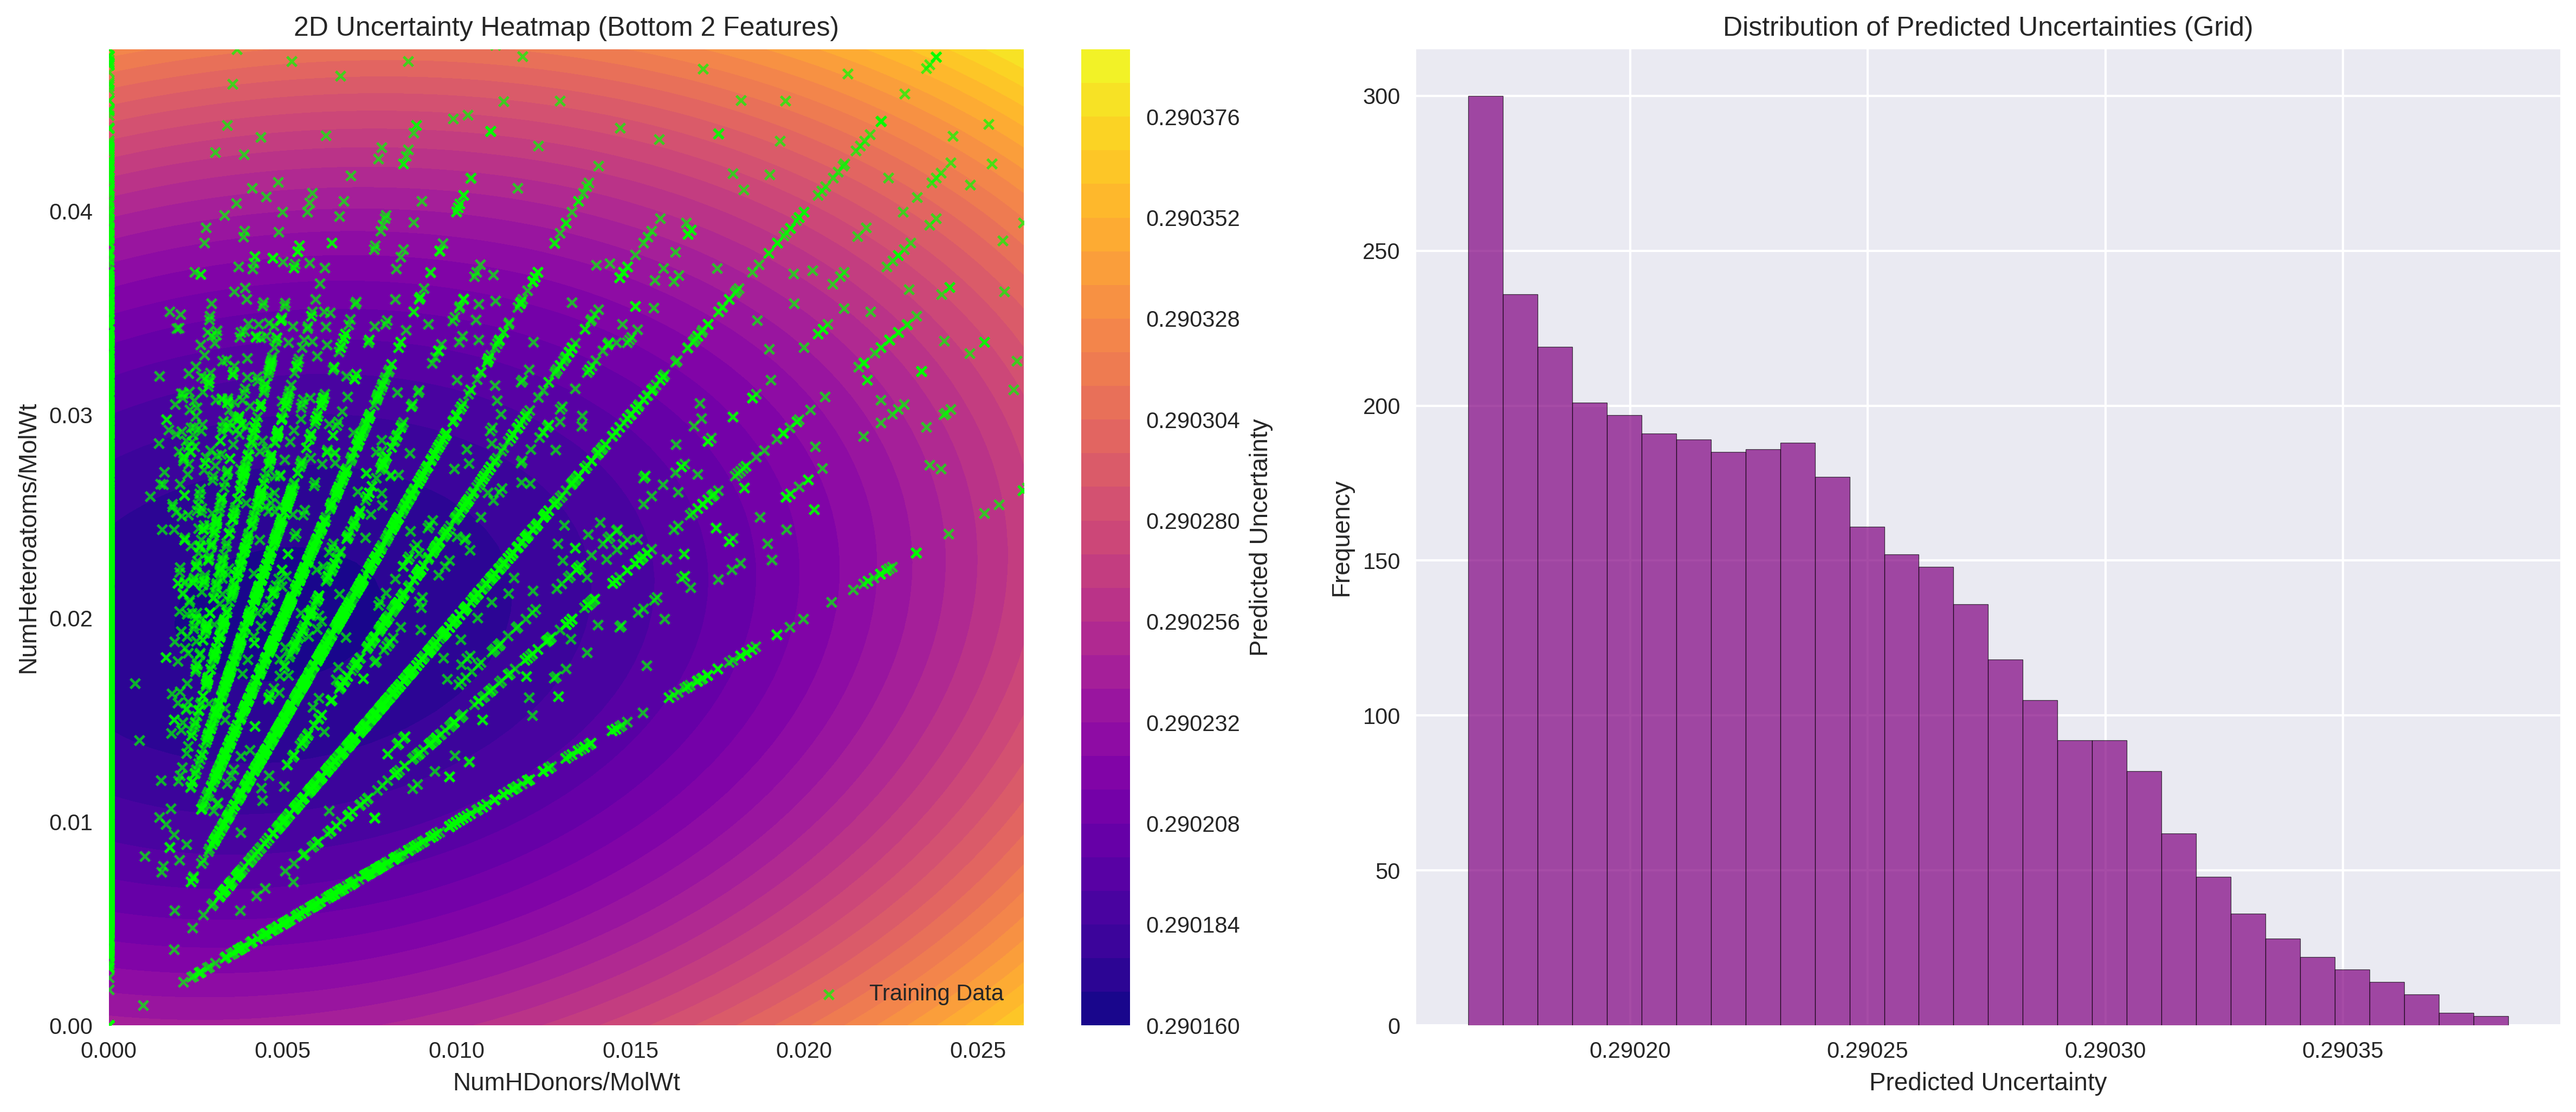
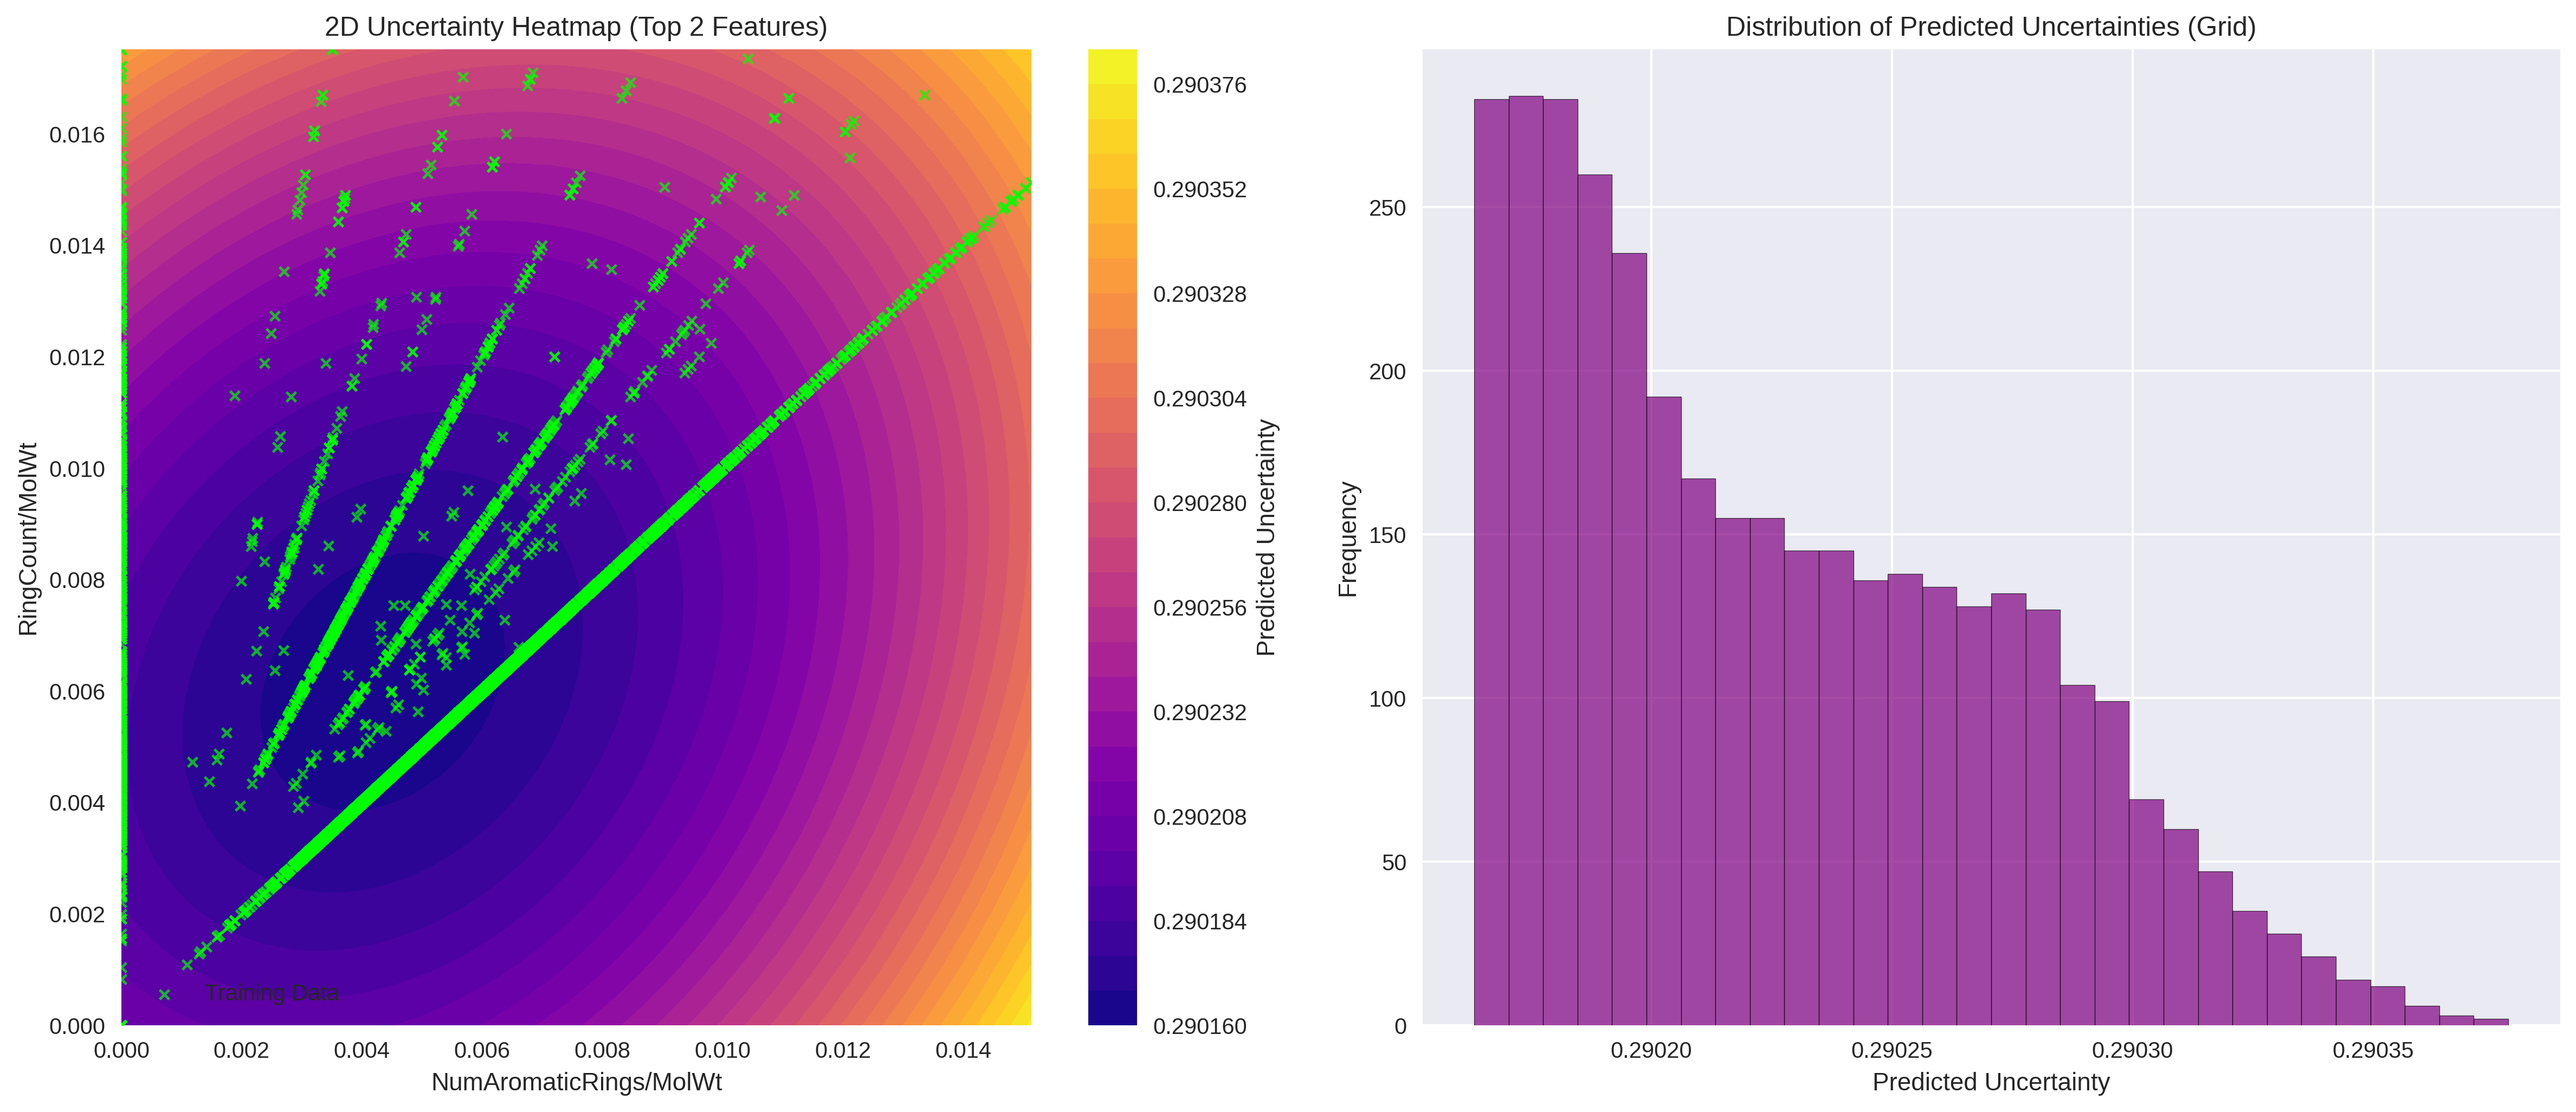
how uncertainty changes

diff --git a/main.py b/main.py
@@ -103,38 +103,21 @@ def plot_sigmas(length_scales, feature_names, sorted_indices, save_path):
     plt.savefig(save_path, dpi=300, bbox_inches='tight')
     plt.close()
 
-def plot_relative_importance(length_scales, feature_names, sorted_indices, save_path):
-    sorted_features = [feature_names[i] for i in sorted_indices]
-    importance_ratio = length_scales / np.max(length_scales)
-    
-    fig, ax = plt.subplots(figsize=(10, 8))
-    
-    ax.barh(range(len(sorted_features)), importance_ratio[sorted_indices], color='lightcoral')
-    ax.set_yticks(range(len(sorted_features)))
-    ax.set_yticklabels(sorted_features)
-    ax.set_xlabel('Relative Importance')
-    ax.set_title('Relative Feature Importance')
-    ax.grid(True, alpha=0.3)
-    
-    plt.tight_layout()
-    plt.savefig(save_path, dpi=300, bbox_inches='tight')
-    plt.close()
-
 def plot_uncertainty_heatmap(gp, X, y, feature_names, sigmas, X_train, save_path):
     length_scales = 1.0 / sigmas
     sorted_indices = np.argsort(length_scales)[::-1]
-    bottom2_idx = sorted_indices[-2:]
-    
-    x1_name, x2_name = feature_names[bottom2_idx[0]], feature_names[bottom2_idx[1]]
-    x1 = np.linspace(np.percentile(X[:, bottom2_idx[0]], 1), np.percentile(X[:, bottom2_idx[0]], 99), 60)
-    x2 = np.linspace(np.percentile(X[:, bottom2_idx[1]], 1), np.percentile(X[:, bottom2_idx[1]], 99), 60)
+    top2_idx = sorted_indices[:2]
+    x_idx, y_idx = top2_idx[0], top2_idx[1]
+    x_name, y_name = feature_names[x_idx], feature_names[y_idx]
+    x1 = np.linspace(np.percentile(X[:, x_idx], 1), np.percentile(X[:, x_idx], 99), 60)
+    x2 = np.linspace(np.percentile(X[:, y_idx], 1), np.percentile(X[:, y_idx], 99), 60)
     X1g, X2g = np.meshgrid(x1, x2)
     X_grid = np.zeros((X1g.size, X.shape[1]))
-    X_grid[:, bottom2_idx[0]] = X1g.ravel()
-    X_grid[:, bottom2_idx[1]] = X2g.ravel()
+    X_grid[:, x_idx] = X1g.ravel()
+    X_grid[:, y_idx] = X2g.ravel()
     
     for i in range(X.shape[1]):
-        if i not in bottom2_idx:
+        if i not in top2_idx:
             X_grid[:, i] = np.mean(X[:, i])
     
     _, y_std_grid = gp.predict(X_grid, return_std=True)
@@ -144,14 +127,14 @@ def plot_uncertainty_heatmap(gp, X, y, feature_names, sigmas, X_train, save_path
     cf = ax_heat.contourf(X1g, X2g, y_std_grid, levels=30, cmap='plasma')
     fig.colorbar(cf, ax=ax_heat, label='Predicted Uncertainty')
     
-    ax_heat.set_xlabel(x1_name)
-    ax_heat.set_ylabel(x2_name)
-    ax_heat.set_title('2D Uncertainty Heatmap (Bottom 2 Features)')
+    ax_heat.set_xlabel(x_name)
+    ax_heat.set_ylabel(y_name)
+    ax_heat.set_title('2D Uncertainty Heatmap (Top 2 Features)')
     ax_heat.set_xlim(x1.min(), x1.max())
     ax_heat.set_ylim(x2.min(), x2.max())
     
     if X_train is not None:
-        ax_heat.scatter(X_train[:, bottom2_idx[0]], X_train[:, bottom2_idx[1]], 
+        ax_heat.scatter(X_train[:, x_idx], X_train[:, y_idx], 
                        c='lime', marker='x', s=18, alpha=0.7, 
                        label='Training Data', zorder=5, linewidth=1.2)
         ax_heat.legend()
@@ -165,7 +148,7 @@ def plot_uncertainty_heatmap(gp, X, y, feature_names, sigmas, X_train, save_path
     plt.savefig(save_path, dpi=300, bbox_inches='tight')
     plt.close()
 
-def learning_evolution(X, y, feature_names, config, sigmas, full_X, n_init=500, n_steps=400, gif_path=f'{FIGURE_DIR}/learning_evolution.gif'):
+def learning_evolution(X, y, feature_names, config, sigmas, full_X, n_init=1, n_steps=30, gif_path=f'{FIGURE_DIR}/learning_evolution.gif'):
     np.random.seed(42)
     os.makedirs(FIGURE_DIR, exist_ok=True)
     frames = []
@@ -182,15 +165,13 @@ def learning_evolution(X, y, feature_names, config, sigmas, full_X, n_init=500, 
 
     length_scales = 1.0 / sigmas
     sorted_indices = np.argsort(length_scales)[::-1]
-    bottom2_idx = sorted_indices[-2:]
-    x_idx, y_idx = bottom2_idx[0], bottom2_idx[1]
+    top2_idx = sorted_indices[:2]
+    x_idx, y_idx = top2_idx[0], top2_idx[1]
     x_name, y_name = feature_names[x_idx], feature_names[y_idx]
 
-    xlim = (np.percentile(full_X[:, x_idx], 1), np.percentile(full_X[:, x_idx], 99))
-    ylim = (np.percentile(full_X[:, y_idx], 1), np.percentile(full_X[:, y_idx], 99))
-    grid_size = 30
-    x1 = np.linspace(xlim[0], xlim[1], grid_size)
-    x2 = np.linspace(ylim[0], ylim[1], grid_size)
+    grid_size = 60
+    x1 = np.linspace(0, 10, grid_size)
+    x2 = np.linspace(0, 0.1, grid_size)
     X1g, X2g = np.meshgrid(x1, x2)
     X_grid = np.zeros((X1g.size, X.shape[1]))
     X_grid[:, x_idx] = X1g.ravel()
@@ -209,11 +190,11 @@ def learning_evolution(X, y, feature_names, config, sigmas, full_X, n_init=500, 
     grid_unc_min, grid_unc_max = np.inf, -np.inf
     
     for _ in range(n_steps):
+        if len(temp_pool_idx) == 0:
+            break
         X_train, y_train = X[temp_train_idx], y[temp_train_idx]
-        
         gp = GP(gif_config, sigmas)
         gp.fit(X_train, y_train)
-        
         _, y_std_grid = gp.predict(X_grid, return_std=True)
         grid_unc_min = min(grid_unc_min, np.min(y_std_grid))
         grid_unc_max = max(grid_unc_max, np.max(y_std_grid))
@@ -226,13 +207,16 @@ def learning_evolution(X, y, feature_names, config, sigmas, full_X, n_init=500, 
             next_idx = temp_pool_idx[next_idx_in_pool]
             temp_train_idx.append(next_idx)
             temp_pool_idx = np.setdiff1d(temp_pool_idx, [next_idx])
-    
-    unc_ylim = (min(temp_mean_uncertainties)*0.95, max(temp_mean_uncertainties)*1.05)
+
+    if len(temp_mean_uncertainties) == 0 or not np.isfinite(temp_mean_uncertainties).all():
+        unc_ylim = (0, 1)
+        grid_unc_min, grid_unc_max = 0, 1
+    else:
+        unc_ylim = (min(temp_mean_uncertainties)*0.95, max(temp_mean_uncertainties)*1.05)
+        
     del temp_train_idx, temp_pool_idx, temp_mean_uncertainties
 
     mean_uncertainties = []
-    all_uncertainties = []
-    all_gp_uncertainties = []
     pool_idx = np.arange(len(X))
     init_idx = np.random.choice(pool_idx, size=n_init, replace=False)
     train_idx = list(init_idx)
@@ -247,8 +231,6 @@ def learning_evolution(X, y, feature_names, config, sigmas, full_X, n_init=500, 
         
         _, y_std_pool = gp.predict(X_pool, return_std=True)
         mean_uncertainties.append(np.mean(y_std_pool))
-        all_uncertainties.append(y_std_pool.copy())
-        all_gp_uncertainties.extend(y_std_pool.tolist())
         
         if len(pool_idx) > 0:
             next_idx_in_pool = np.argmax(y_std_pool)
@@ -259,8 +241,7 @@ def learning_evolution(X, y, feature_names, config, sigmas, full_X, n_init=500, 
         fig, axes = plt.subplots(1, 2, figsize=(14, 6))
         
         ax = axes[0]
-        ax.scatter(full_X[:, x_idx], full_X[:, y_idx], c='white', s=40, marker='x', label='All Data', alpha=0.8, zorder=1)
-        ax.scatter(X[pool_idx, x_idx], X[pool_idx, y_idx], c='gray', s=40, marker='x', label='Pool', alpha=0.3, zorder=2)
+        ax.scatter(full_X[:, x_idx], full_X[:, y_idx], c='black', s=40, marker='x', label='All Data', alpha=0.8, zorder=1)
         ax.scatter(X[train_idx, x_idx], X[train_idx, y_idx], c='lime', s=40, marker='x', label='Train', alpha=0.9, zorder=3)
         
         if len(train_idx) > n_init:
@@ -270,10 +251,10 @@ def learning_evolution(X, y, feature_names, config, sigmas, full_X, n_init=500, 
         ax.set_xlabel(x_name)
         ax.set_ylabel(y_name)
         ax.set_title(f'Learning Step {step+1}/{n_steps}')
-        ax.legend(loc='upper right')
+        ax.legend(loc='lower right')
         ax.grid(True, alpha=0.3)
-        ax.set_xlim(xlim)
-        ax.set_ylim(ylim)
+        ax.set_xlim(0, 10)
+        ax.set_ylim(0,0.1)
         
         _, y_std_grid = gp.predict(X_grid, return_std=True)
         y_std_grid = y_std_grid.reshape(X1g.shape)
@@ -284,7 +265,7 @@ def learning_evolution(X, y, feature_names, config, sigmas, full_X, n_init=500, 
         
         ax2 = axes[1]
         ax2.plot(np.arange(1, step+2), mean_uncertainties, '-o', color='purple')
-        ax2.set_xlabel('Active Learning Step')
+        ax2.set_xlabel('Learning Step')
         ax2.set_ylabel('Mean Predictive Uncertainty')
         ax2.set_title('Uncertainty Reduction')
         ax2.set_xlim(1, n_steps)
@@ -299,7 +280,7 @@ def learning_evolution(X, y, feature_names, config, sigmas, full_X, n_init=500, 
         frames.append(imageio.v2.imread(frame_path))
         os.remove(frame_path)
     
-    imageio.mimsave(gif_path, frames, duration=0.7)
+    imageio.mimsave(gif_path, frames, duration=2)
     print(f"Active learning GIF saved to {gif_path}")
     
     for f in glob.glob(f'{FIGURE_DIR}/_al_frame_*.png'):
@@ -349,7 +330,6 @@ def main():
     
     plot_length_scales(length_scales, feature_names, sorted_indices, f'{FIGURE_DIR}/kernel_length_scales.png')
     plot_sigmas(length_scales, feature_names, sorted_indices, f'{FIGURE_DIR}/kernel_sigmas.png')
-    plot_relative_importance(length_scales, feature_names, sorted_indices, f'{FIGURE_DIR}/kernel_relative_importance.png')
     plot_uncertainty_heatmap(gp, X, y, feature_names, sigmas, X_train, f'{FIGURE_DIR}/kernel_uncertainty_heatmap.png')
 
     subset_size = min(500, len(X))
@@ -357,7 +337,7 @@ def main():
     X_subset = X[subset_idx, :2]
     y_subset = y[subset_idx]
     
-    learning_evolution(X_subset, y_subset, feature_names[:2], config, sigmas[:2], full_X=X, n_init=3, n_steps=50, gif_path=f'{FIGURE_DIR}/learning_evolution.gif')
+    learning_evolution(X_subset, y_subset, feature_names[:2], config, sigmas[:2], full_X=X, gif_path=f'{FIGURE_DIR}/learning_evolution.gif')
 
     print("\n" + "="*80)
     print("Done!")
@@ -367,7 +347,6 @@ def main():
     print(f"- {FIGURE_DIR}/solubility_uncertainty.png")
     print(f"- {FIGURE_DIR}/kernel_length_scales.png")
     print(f"- {FIGURE_DIR}/kernel_sigmas.png")
-    print(f"- {FIGURE_DIR}/kernel_relative_importance.png")
     print(f"- {FIGURE_DIR}/kernel_uncertainty_heatmap.png")
     print(f"- {FIGURE_DIR}/learning_evolution.gif")
     print(f"- {CONFIG_PATH}")
